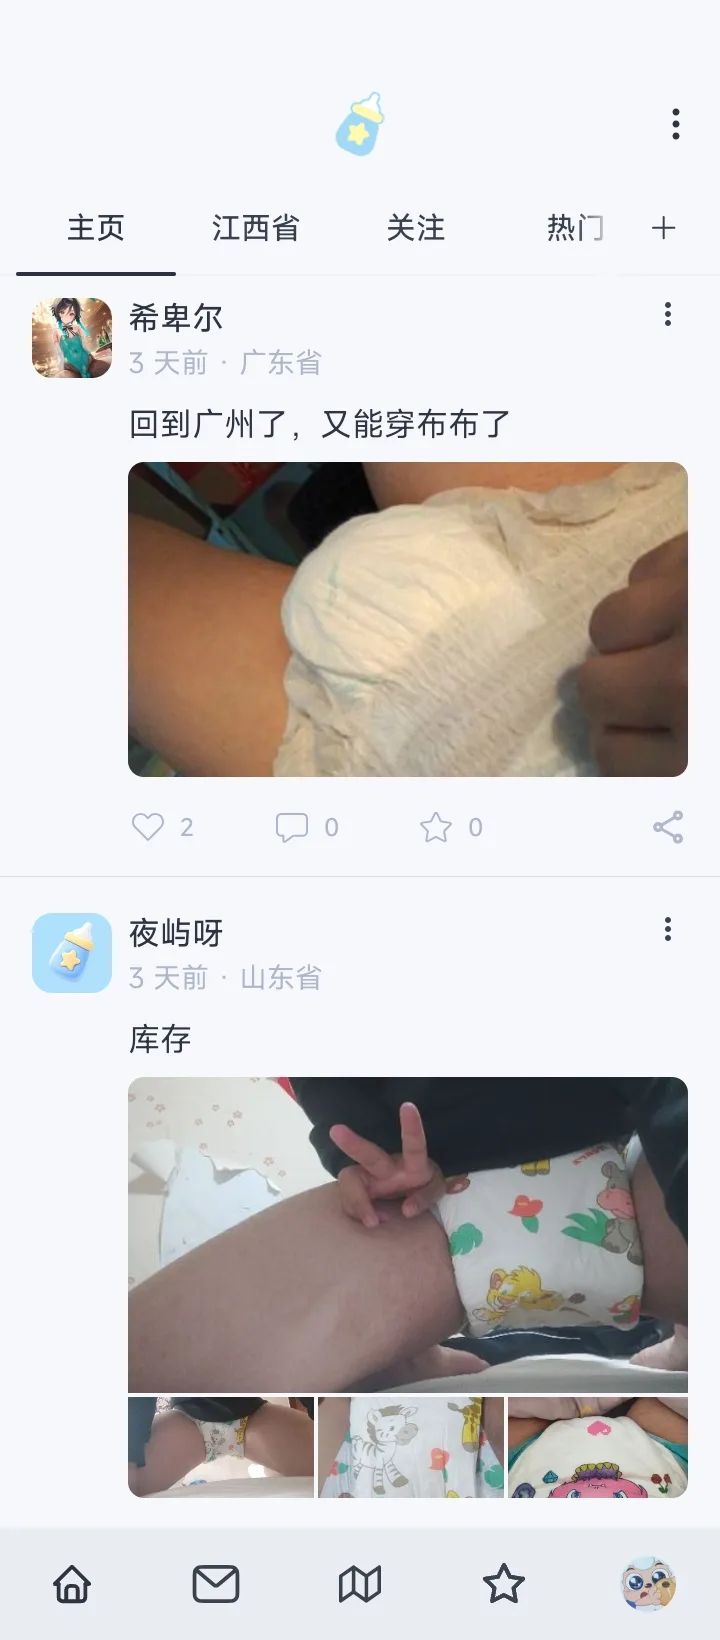
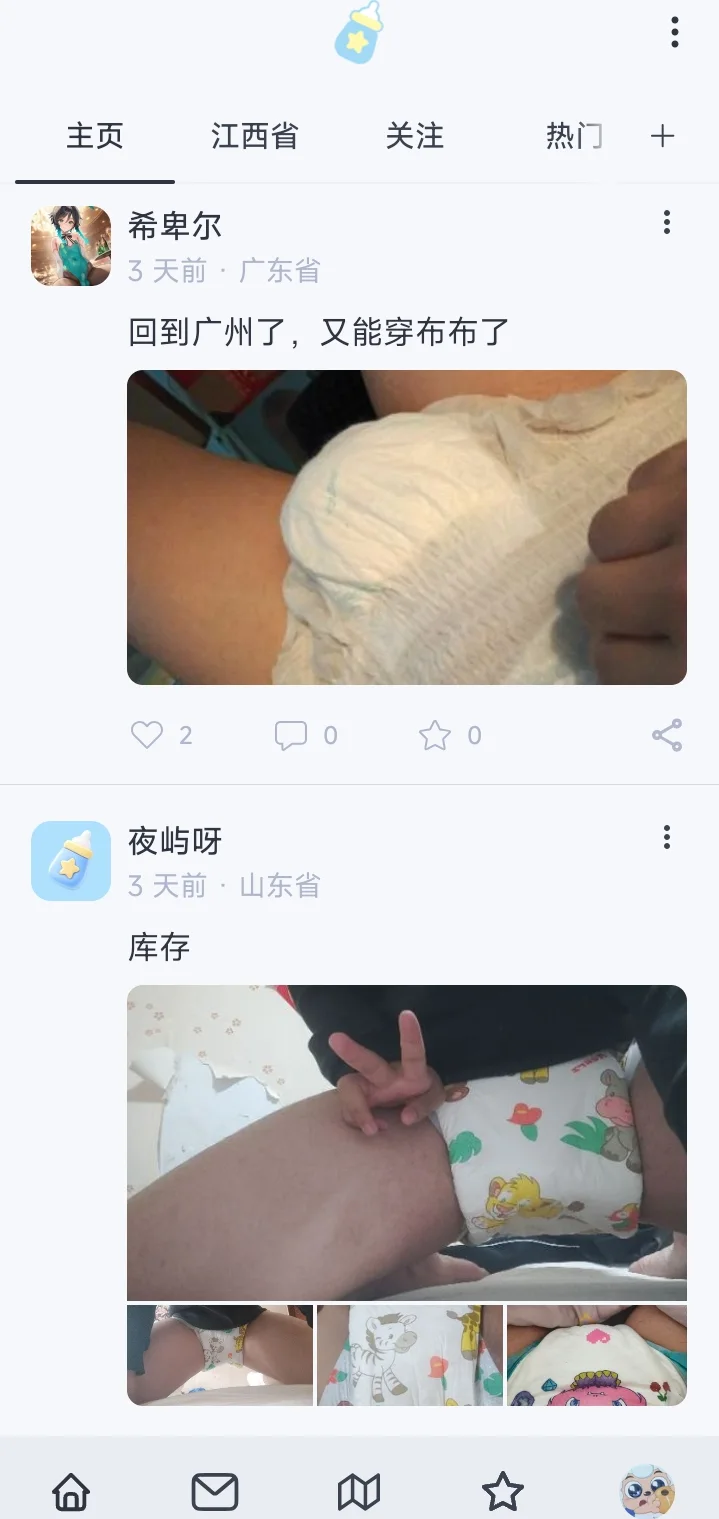
fix(download): trim screenshot margins and let the phone frame follow the image
The six screenshots carried a uniform background margin (up to 92px top,
58px sides), which showed as pale bands inside the 9:19.5 phone frame.

Trim the baked-in margin from every asset and set the frame's aspect
ratio from the image's own dimensions, with object-fit: cover as a
safety net. Also skip the reading-line IntersectionObserver when the
viewport height is under 2px, which previously produced the invalid
rootMargin "--1px" and broke the page.

diff --git a/client/tests/download-screenshot-fallback.test.js b/client/tests/download-screenshot-fallback.test.js
@@ -4,12 +4,12 @@ import { readFileSync, statSync } from 'node:fs';
 
 const read = path => readFileSync(new URL(path, import.meta.url), 'utf8');
 const SLOTS = [
-  ['community-light', 'community-light', 720, 1640],
-  ['community-dark', 'community-dark', 720, 1563],
-  ['rankings-light', 'rankings-light', 720, 1640],
-  ['rankings-dark', 'rankings-dark', 720, 1640],
-  ['reading-light', 'reading-light', 720, 1640],
-  ['reading-dark', 'reading-dark', 720, 1640],
+  ['community-light', 'community-light', 719, 1519],
+  ['community-dark', 'community-dark', 672, 1521],
+  ['rankings-light', 'rankings-light', 672, 1536],
+  ['rankings-dark', 'rankings-dark', 647, 1475],
+  ['reading-light', 'reading-light', 604, 1425],
+  ['reading-dark', 'reading-dark', 604, 1425],
 ];
 
 test('six bundled screenshots exist as real WebP assets', () => {
@@ -38,4 +38,12 @@ test('the download hook falls back only when the backend has no image', () => {
     assert.match(source, new RegExp(`withFallback\\('${feature}', ${feature}\\)`), feature);
   }
   assert.match(source, /const withFallback = \(feature, image\) => image \?\? fallbackDownloadScreenshot\(feature, effective\);/);
+});
+
+test('the phone frame hugs the screenshot so no background band shows', () => {
+  const page = read('../src/pages/AppDownload.jsx');
+  assert.match(page, /className="adl-phone"[^>]*aspectRatio: `\$\{image\.width\} \/ \$\{image\.height\}`/, 'frame ratio comes from the image');
+  const css = read('../src/pages/AppDownload.css');
+  assert.match(css, /\.adl-phone img \{[^}]*object-fit: cover;/, 'the image fills the frame');
+  assert.match(css, /\.adl-phone img \{[^}]*object-position: top;/, 'cropping stays at the bottom');
 });

diff --git a/client/src/pages/AppDownload.jsx b/client/src/pages/AppDownload.jsx
@@ -114,7 +114,8 @@ function ScreenImage({ feature, image, decorative = false }) {
 }
 
 function Phone({ feature, image, decorative = false }) {
-  return <div className="adl-phone" data-tone={feature.tone}><ScreenImage feature={feature} image={image} decorative={decorative} /></div>;
+  // 机身按截图本身的比例收缩，避免固定比例在边缘留下背景色条。
+  return <div className="adl-phone" data-tone={feature.tone} style={{ aspectRatio: `${image.width} / ${image.height}` }}><ScreenImage feature={feature} image={image} decorative={decorative} /></div>;
 }
 
 function HeroScreenshots({ images }) {
@@ -140,11 +141,14 @@ function FeatureShowcase({ images }) {
     function observeAtReadingLine() {
       observer?.disconnect();
       const height = window.innerHeight;
+      // 视口高度为 0 时（隐藏页签、内嵌零高度容器）无法构造合法的负边距。
+      if (height < 2) return;
       const top = Math.round(height * 0.28);
+      const bottom = Math.max(0, Math.round(height - top - 1));
       observer = new IntersectionObserver(entries => {
         const visible = entries.find(entry => entry.isIntersecting);
         if (visible) setActive(articleRefs.current.indexOf(visible.target));
-      }, { rootMargin: `-${top}px 0px -${height - top - 1}px 0px` });
+      }, { rootMargin: `-${top}px 0px -${bottom}px 0px` });
       articleRefs.current.forEach(article => { if (article) observer.observe(article); });
     }
     observeAtReadingLine();

diff --git a/client/src/pages/downloadScreenshotFallback.js b/client/src/pages/downloadScreenshotFallback.js
@@ -8,12 +8,12 @@ import readingLight from '../assets/app-download/reading-light.webp';
 // 后端还没有为某个槽位配置截图时，下载页使用随前端一同发布的实机截图。
 // 管理员上传后，后端图片优先；删除槽位后又回到这里的内置图。
 export const DOWNLOAD_SCREENSHOT_FALLBACK = {
-  'community-light': { url: communityLight, width: 720, height: 1640 },
-  'community-dark': { url: communityDark, width: 720, height: 1563 },
-  'rankings-light': { url: rankingsLight, width: 720, height: 1640 },
-  'rankings-dark': { url: rankingsDark, width: 720, height: 1640 },
-  'reading-light': { url: readingLight, width: 720, height: 1640 },
-  'reading-dark': { url: readingDark, width: 720, height: 1640 },
+  'community-light': { url: communityLight, width: 719, height: 1519 },
+  'community-dark': { url: communityDark, width: 672, height: 1521 },
+  'rankings-light': { url: rankingsLight, width: 672, height: 1536 },
+  'rankings-dark': { url: rankingsDark, width: 647, height: 1475 },
+  'reading-light': { url: readingLight, width: 604, height: 1425 },
+  'reading-dark': { url: readingDark, width: 604, height: 1425 },
 };
 
 export function fallbackDownloadScreenshot(feature, theme) {

diff --git a/client/src/pages/AppDownload.css b/client/src/pages/AppDownload.css
@@ -134,7 +134,7 @@
   --adl-highlight: color-mix(in srgb, var(--adl-ink) var(--adl-tone-ink-share), var(--adl-tone));
 }
 .adl-phone { position: relative; overflow: hidden; aspect-ratio: 9 / 19.5; border: 4px solid #181820; border-radius: clamp(16px, 2.4vw, 28px); background: var(--adl-screen); box-shadow: 0 16px 40px #12121a55; }
-.adl-phone img { display: block; width: 100%; height: 100%; object-fit: contain; object-position: top; }
+.adl-phone img { display: block; width: 100%; height: 100%; object-fit: cover; object-position: top; }
 
 .adl-kicker { display: flex; align-items: center; gap: 10px; color: var(--adl-highlight); font-size: 13px; font-weight: 750; letter-spacing: .055em; }
 .adl-kicker span { display: inline-flex; align-items: center; gap: 10px; }
